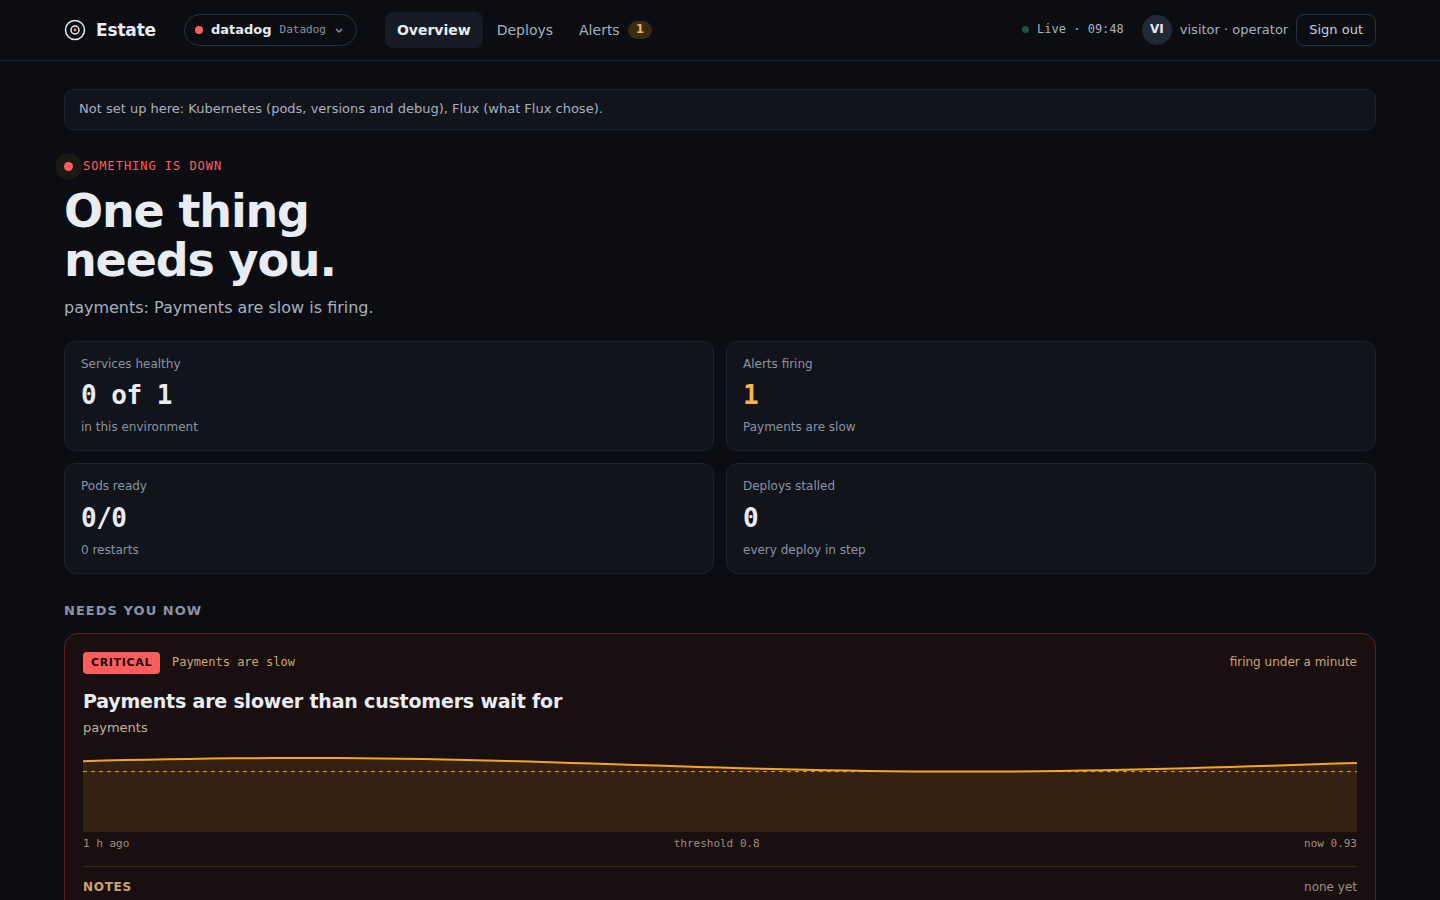
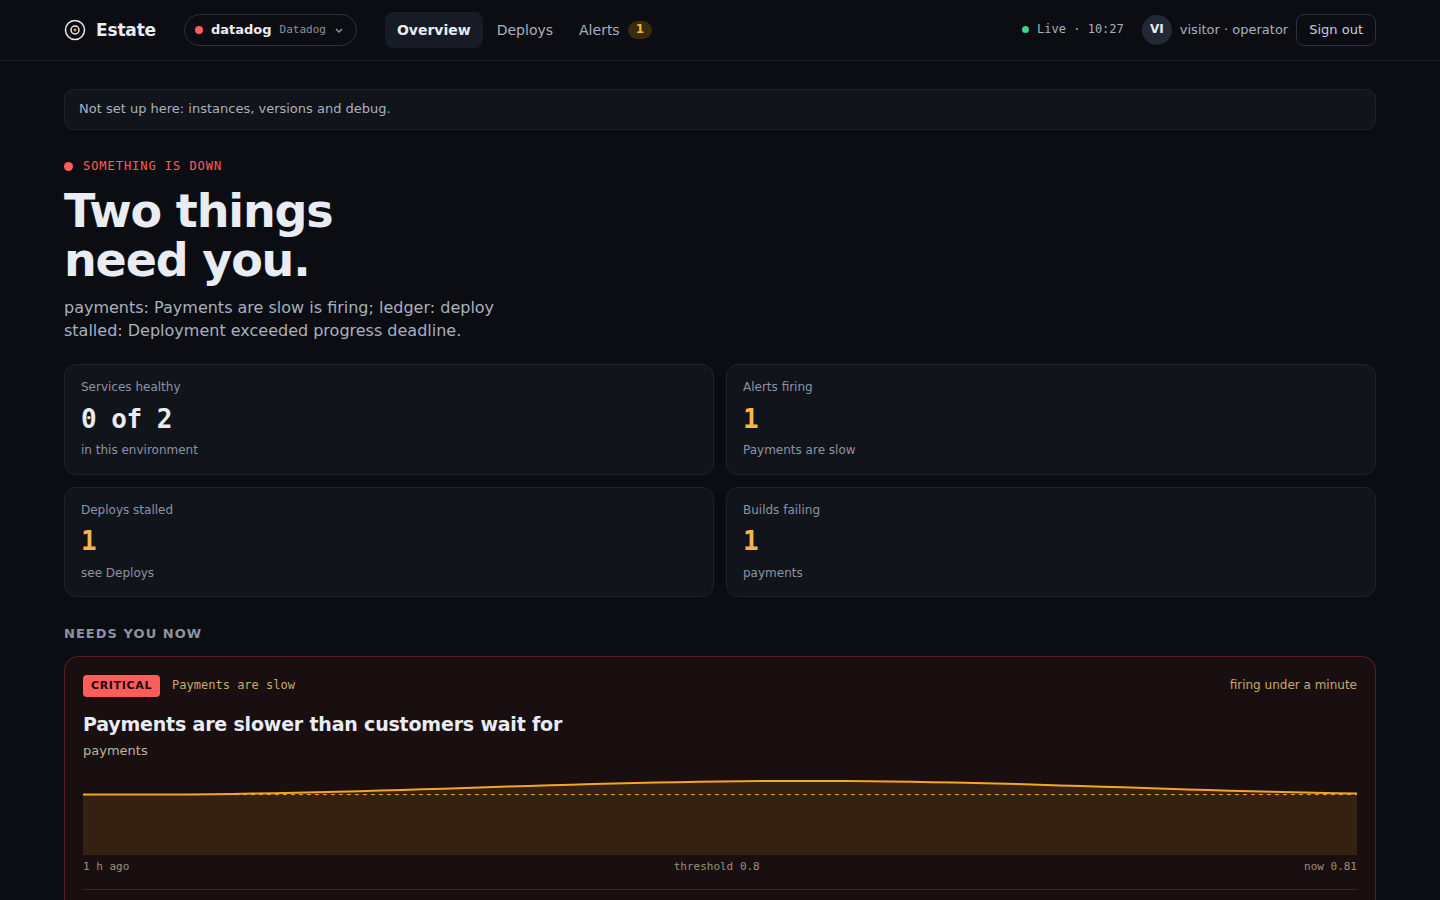
Fill the fourth tile with failing builds where there are no instances to count
An environment with no runtime showed three tiles in a grid of four. Builds
failing is the next tile: how many of this environment's services last built
red, and which. Builds are the whole estate's, so only the services here count.
The README's Datadog screenshot shows the page as it is now.

Claude-Session: https://claude.ai/code/session_01PiXEMhRYrb7um64anGo5Gk

diff --git a/src/web/pages/Overview.tsx b/src/web/pages/Overview.tsx
@@ -77,6 +77,11 @@ export const tilesOf = (events: Partial<Events>): ReadonlyArray<Tile> => {
   const services = events.services?.services ?? []
   const pods = services.flatMap((service) => service.pods)
   const runtime = events.services?.sources.find((source) => source.kind === "cluster")
+  // Builds are the whole estate's: only those of the services in this environment count here.
+  const here = new Set(services.map((service) => service.name))
+  const failing = (events.deploys?.services ?? [])
+    .filter((service) => here.has(service.name) && service.builds[0]?.status === "failure")
+    .map((service) => service.name)
   const firing = (events.alerts?.alerts ?? []).filter((alert) => alert.state === "firing")
   const stalled = (events.deploys?.services ?? []).flatMap((service) =>
     service.environments.filter(
@@ -124,6 +129,12 @@ export const tilesOf = (events: Partial<Events>): ReadonlyArray<Tile> => {
       value: String(stalled.length),
       note: stalled.length === 0 ? "every deploy in step" : "see Deploys",
       alarm: stalled.length > 0,
+    },
+    {
+      label: "Builds failing",
+      value: String(failing.length),
+      note: failing.length === 0 ? "every last build passed" : failing.slice(0, 2).join(", "),
+      alarm: failing.length > 0,
     },
   ]
   return [...own, ...always].slice(0, Math.max(4, own.length))

diff --git a/src/web/pages.suite.tsx b/src/web/pages.suite.tsx
@@ -87,6 +87,18 @@ describe("the overview", () => {
       "Alerts firing",
       "Deploys stalled",
     ])
+    const off = runtime(undefined, "off")
+    const withoutVitals = { ...off, catalog: { ...off.catalog, vitals: [] }, services: { ...off.services, vitals: [] } }
+    const failed = { sha: "a", title: "x", status: "failure" as const, at: "2026-10-03T11:00:00Z", url: "u" }
+    const builds = (name: string) => ({
+      ...withoutVitals,
+      deploys: {
+        ...events.deploys,
+        services: [{ name, builds: [failed], environments: [] }],
+      },
+    })
+    expect(tilesOf(builds("orders")).at(-1)).toMatchObject({ label: "Builds failing", value: "1", note: "orders" })
+    expect(tilesOf(builds("elsewhere")).at(-1)).toMatchObject({ label: "Builds failing", value: "0" })
   })
 
   test("draws the headline, the map, the card for what fires, silences, lanes and the feed", () => {
